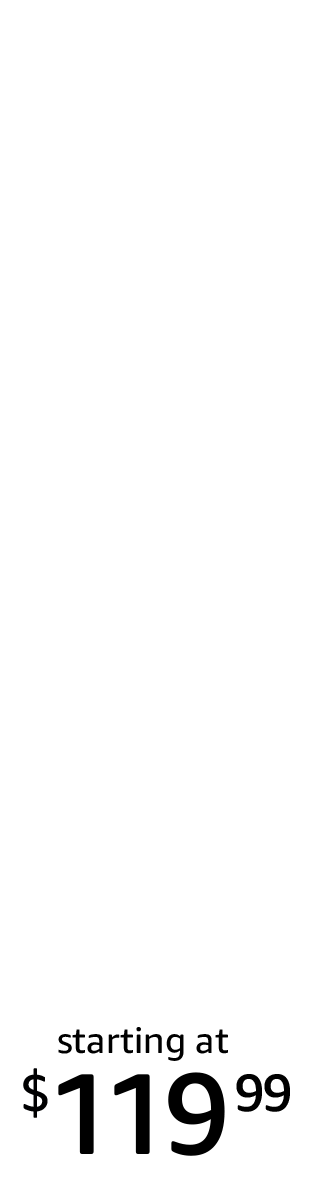
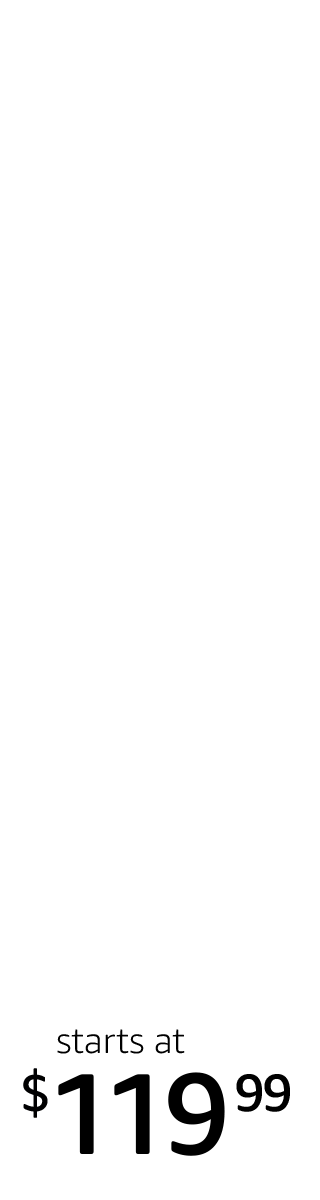
Mobile updates

Changed region(s): [[0.1875, 0.8325, 0.7188, 0.8942]]

diff --git a/staging/buds/ECHOB25_Anim_320x50/index.html b/staging/buds/ECHOB25_Anim_320x50/index.html
@@ -26,6 +26,9 @@
         <div id="copy2" class="set">
           <img src="images/copy2.png" width="320px" height="50px" />
         </div>
+        <div id="copy3" class="set">
+          <img src="images/copy3.png" width="320px" height="50px" />
+        </div>
         <div id="highlight" class="set">
           <img src="images/highlight.png" width="320px" height="50px" />
         </div>
@@ -120,14 +123,19 @@
             { x: -15, autoAlpha: 0, scale: 1.2, ease: "power2.inOut" },
             "-=.4"
           )
-          .to(["#buds"], 1, { x: -105, ease: "power2.inOut" }, "-=1")
+          .to(
+            ["#buds"],
+            1,
+            { x: -130, scale: 0.85, ease: "power2.inOut" },
+            "-=1"
+          )
           .to(
             "#highlight",
             0.75,
             { autoAlpha: 1, ease: "power2.inOut" },
             "-=.6"
           )
-          .from(["#price"], 1, {
+          .from(["#copy3", "#price"], 1, {
             x: -15,
             scale: 1.2,
             ease: "power3.out",
